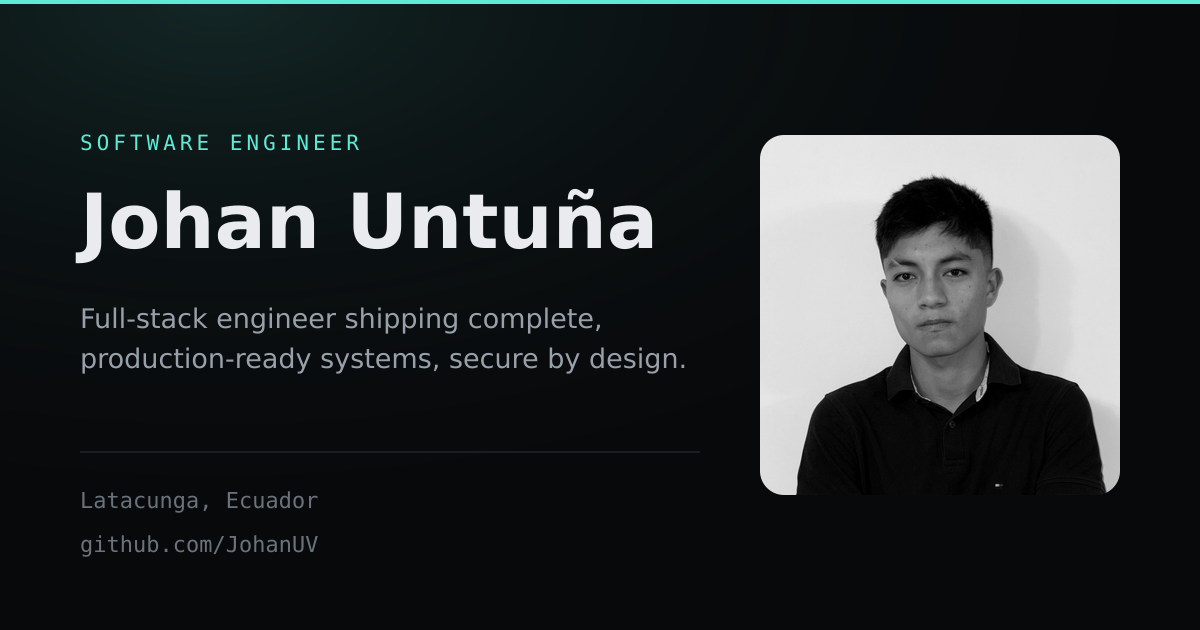
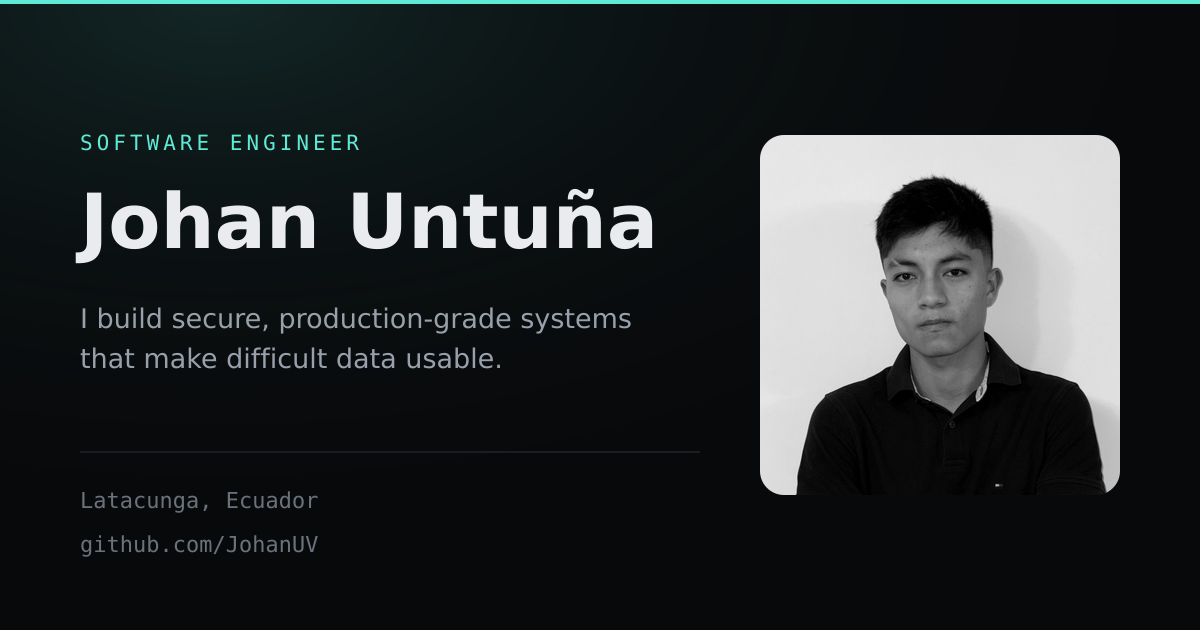
Hero copy: authoritative, achievement-backed framing

Changed region(s): [[0.0617, 0.4825, 0.555, 0.6032]]

diff --git a/src/i18n/ui.ts b/src/i18n/ui.ts
@@ -13,9 +13,9 @@ export const ui = {
 
     'hero.role': 'Software Engineer · Data & Automation',
     'hero.tagline':
-      'Full-stack engineer who ships complete, production-ready systems — secure by design, not patched after launch.',
+      'I build secure, production-grade systems that make difficult data usable.',
     'hero.body':
-      'I work from the data pipeline to the interface, and I integrate the sources most teams avoid because they are too messy to touch — with access control and auditing built in from the first line.',
+      'Full-stack across data, backend and applied AI. I integrate sources others can’t reach, reverse-engineer what isn’t documented, and design security in from the first line.',
     'hero.techline': 'Python · Django · React · PostgreSQL · n8n · Docker',
     'hero.cv': 'Download CV',
     'hero.cta.work': 'See the work',
@@ -113,9 +113,9 @@ export const ui = {
 
     'hero.role': 'Ingeniero de Software · Datos y Automatización',
     'hero.tagline':
-      'Ingeniero full-stack que entrega sistemas completos y listos para producción — seguros por diseño, no parcheados después del lanzamiento.',
+      'Construyo sistemas seguros y de nivel producción que vuelven usables los datos difíciles.',
     'hero.body':
-      'Trabajo desde el pipeline de datos hasta la interfaz, e integro las fuentes que la mayoría evita por difíciles — con control de acceso y auditoría desde la primera línea.',
+      'Full-stack en datos, backend e IA aplicada. Integro fuentes que otros no pueden alcanzar, hago ingeniería inversa de lo no documentado y diseño la seguridad desde la primera línea.',
     'hero.techline': 'Python · Django · React · PostgreSQL · n8n · Docker',
     'hero.cv': 'Descargar CV',
     'hero.cta.work': 'Ver proyectos',
